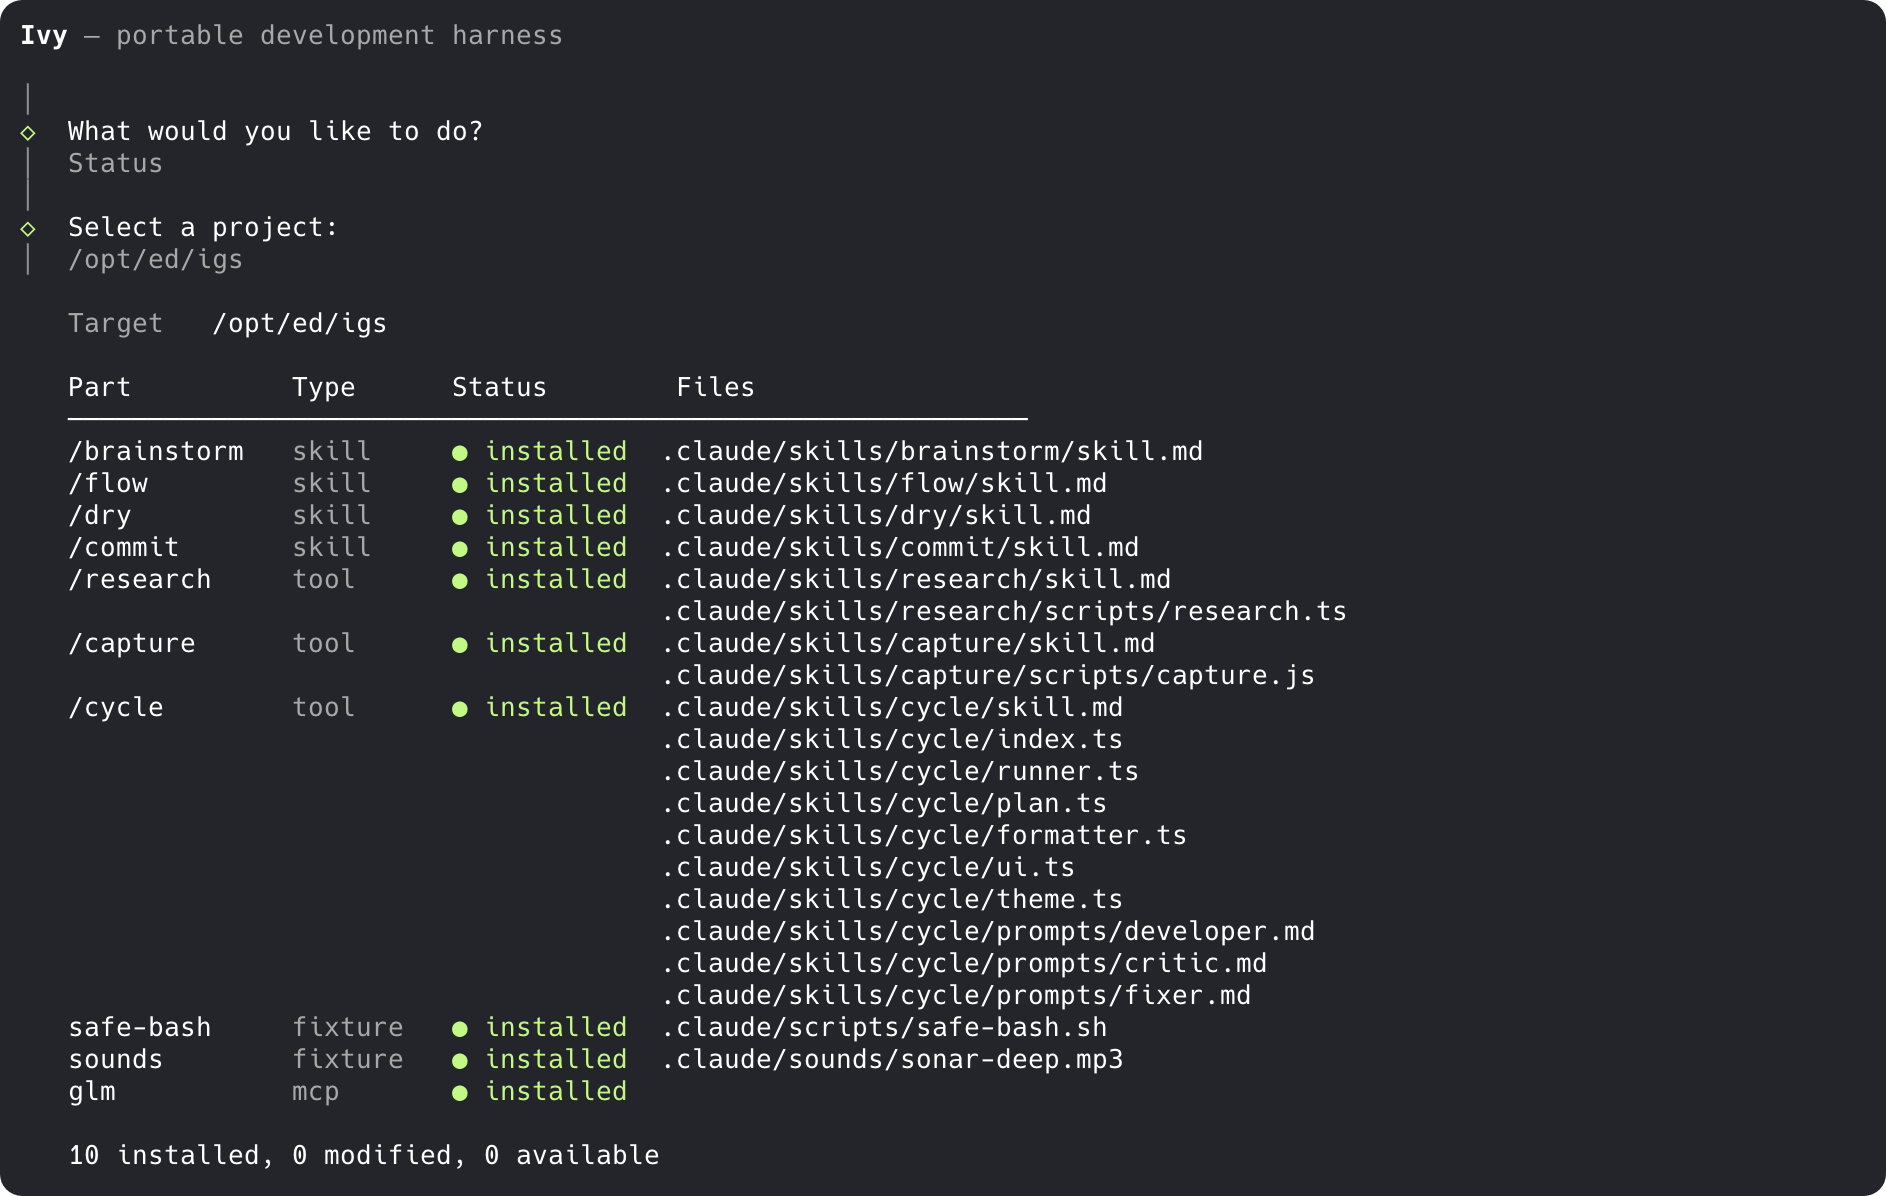
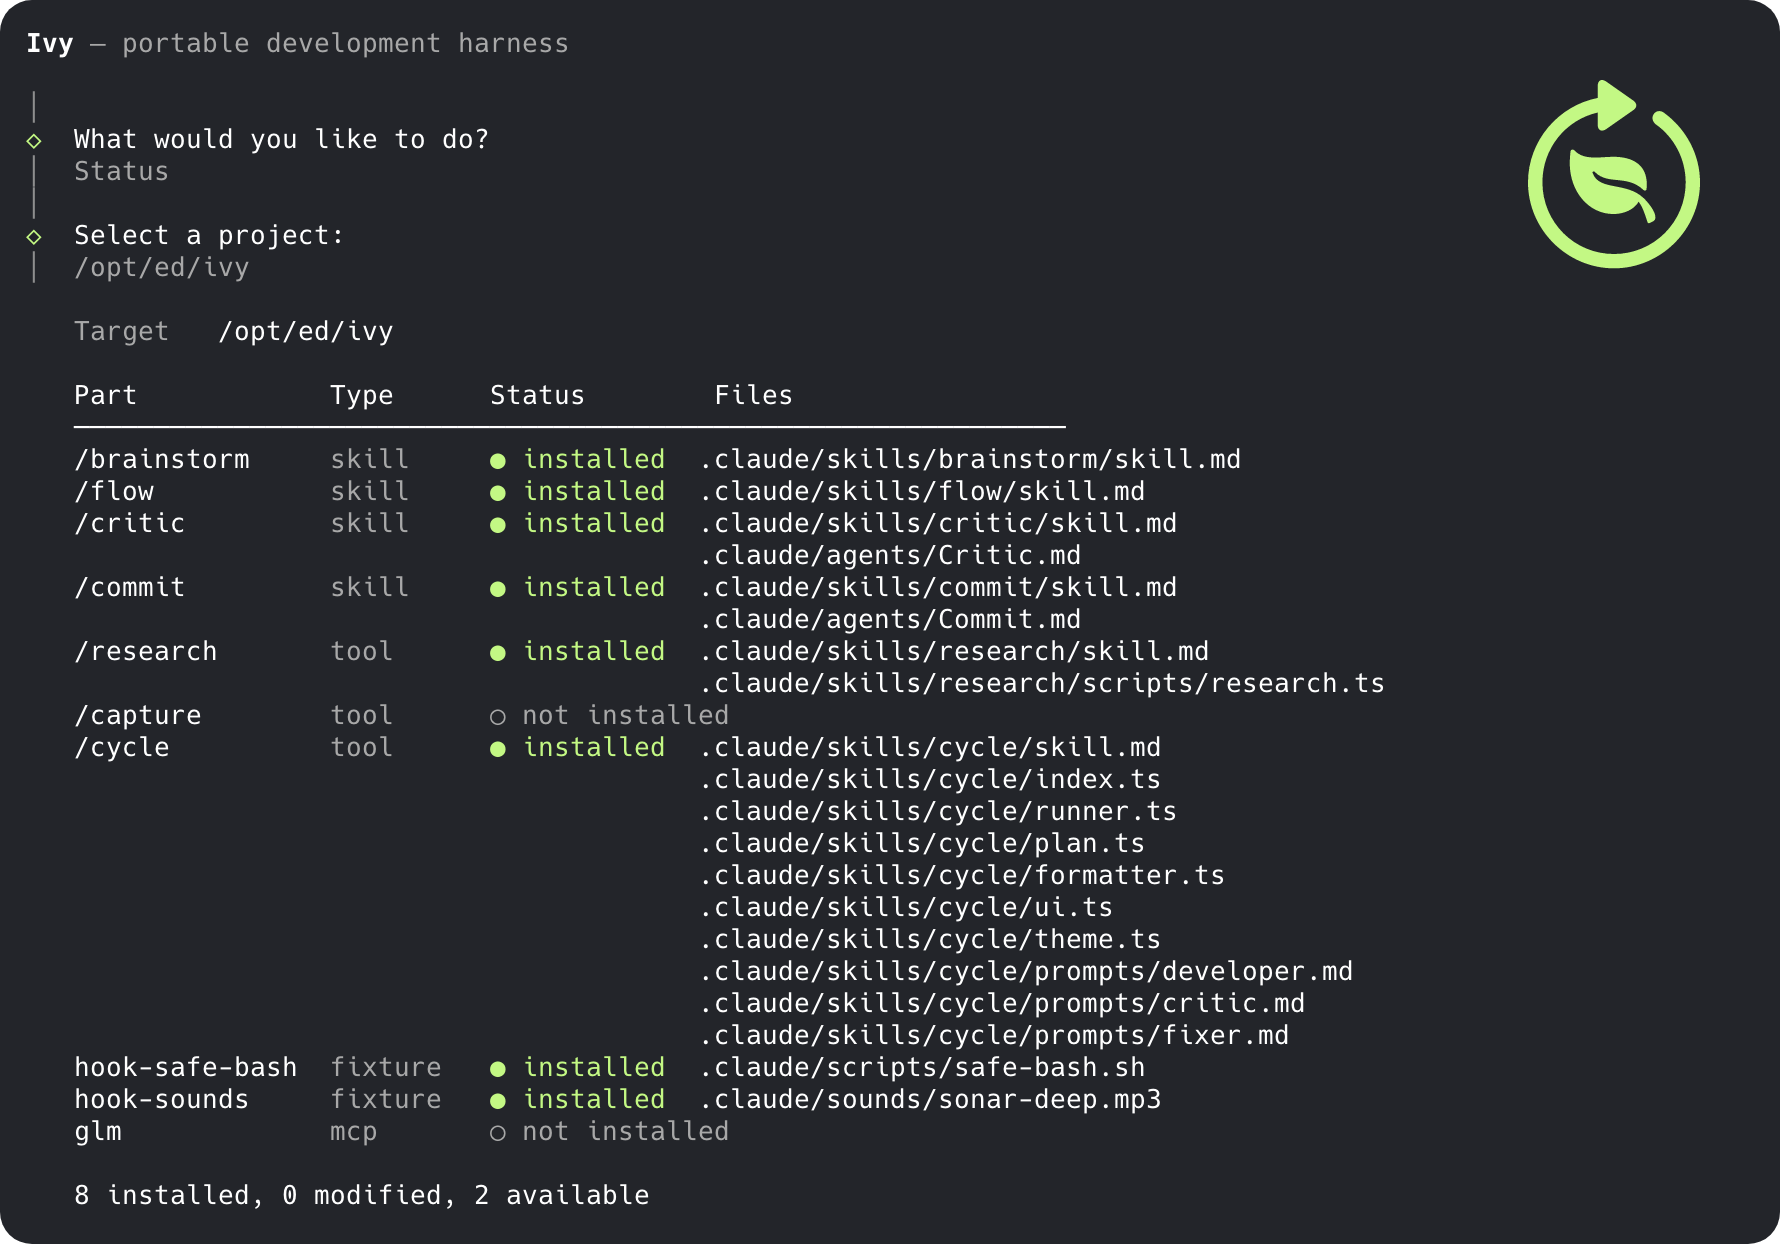
📄 docs: clean up — remove stale plan, align table, update screenshot

diff --git a/CLAUDE.md b/CLAUDE.md
@@ -36,12 +36,12 @@ Files in `parts/` get **symlinked** into the target `.claude/` directory. Code i
 
 ### Part types
 
-| Type | Display | Description |
-|------|---------|-------------|
-| skill | `/name` | Single skill.md with model directive |
-| tool | `/name` | Skill + supporting scripts/runtime |
-| fixture | `name` | Scripts/hooks/assets, no slash prefix |
-| mcp | `name` | MCP server entry in .mcp.json |
+| Type    | Display  | Description                           |
+|---------|----------|---------------------------------------|
+| skill   | `/name`  | Single skill.md with model directive  |
+| tool    | `/name`  | Skill + supporting scripts/runtime    |
+| fixture | `name`   | Scripts/hooks/assets, no slash prefix |
+| mcp     | `name`   | MCP server entry in .mcp.json         |
 
 ### Installation flow
 
